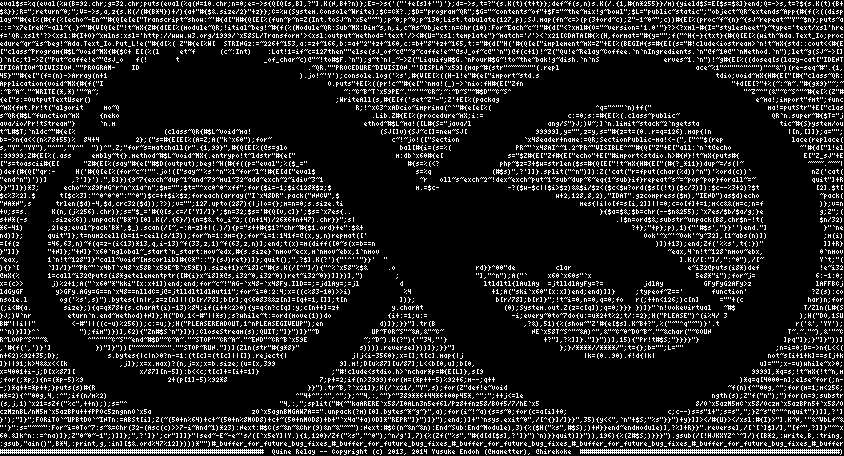
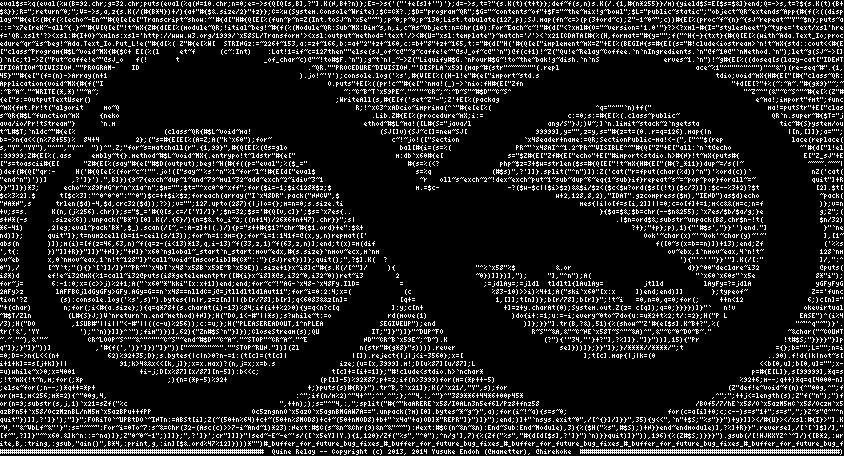
* Octave: explicit cast is now required

Changed region(s): [[0.0, 0.5219, 1.0, 0.9825], [0.0616, 0.5219, 0.4621, 0.8289], [0.5545, 0.4912, 0.8934, 0.7982]]

diff --git a/QR.rb b/QR.rb
@@ -27,31 +27,31 @@ $c%3%2].$      t[$c%3]:"^0^0^0":"^0")$c=++$i%$z;foreach(array("I`x48DR".pack("NN
 +v;s=s.      K(n,(j%256).chr)};s="$_='#{Q[s,c=/['Y]/]}';$n=32;$s='#{Q[v,c]}';$s=`x7es{..                                                              }{$a=$&;$b=chr(--$n&255);`x7es/$b/$a/g;}e              g;Z";(
 s+N*(-s      .size%6)).unpack("B*")[0].K(/.{6}/){n=$&.to_i~2;((n+14)/26*6+n+47).chr}}";s|                                                                 .|$n=ord$&;substr~unpack(B8,chr$n-!t(              $n/32)
 *6-41)      ,2|eg;eval~pack'B*',$_).scan(/[~,-:A-z]+|(.)/){p="s++#{$1?"chr~#{$1.ord}+e":$&+                                                                   ?+};"+p};p),1){"'#$s',"}}'')end."]              }"`ne
-nd)]};      quit"]};t=num2cell(b=11-ceil(s/13));for~n=1:9m={};for~i=1:141f=@(x,y,n)repmat(['                                                                     Ook'~x~'~Ook'~y~32],[1~abs(n)])              ;m(i)
-=[f(z       =46,63,n)~f(q=z-(i<13)*13,q,i-13)~f(33,z,1)~f(63,z,n)];end;t(x)=m(diff([0~s(x=b==n                                                                      )])+13);end;Zf('%%s',t{:})"               ]]+R}
-}"]]}       "+N]};"+N]}`x60`nglobal~_start`n_start:mov~edx,#{s.size}`nmov~ecx,m`nmov~ebx,1`nmov                                                                        ~eax,4`n!t~128`nmov~ebx,              0`nmov
-~eax,       1`n!t~128"]}"call~void~[mscorlib]#{C*"::"}(sJ)ret})]};quit();",?$].K(?'){"'^''"}}'  "                                                                         ].K(/[:"]/,":^0"),/[~              Y`t;"(
-){}`[       `]]/]}"~PR~"`x4bT`x48`x58B`x59E~B`x59E)).size+1}x~i8]c"#{s.K(/[^"]/){"^%`x58"%$&     .o                    rd}}^00"de          clar                             e~i32@puts(i8*)def               !e~i32
-@mX{%       1=call~i32@puts(i8*getelementptr([#{i}x~i8]*@s,i32~0,i32~0))ret~i32~0})]]})],")        ;                   "],"^n");A("`     x60`x60s"`x                          5e8*"i");for~j=               6:-1:0;
-x=(c>>       j)%2+1;A("`x60"*"kki"[x:x+1])end;end;for~c~!"AG-`x48-`x48Fy.IlD==;=jdlAy=;=jl          d                    ltldltl{lAulAy  =jtlldlAyFy=?=          jdlAy          GFyFyG2AFy>z                lAFFBCj
-ldGyGF        y>GFy.AGy=G==n`x48==nlldC=j@=jtlldltldlAut11";for~i=0:2:4;x=((c%83-10)>>i)             %4                    +1;A("ski`x60"[x:x])end;end)]]}     ;typeof~Z=='       function'                ?Z(s):co
-nsole.l        og('%s',s)").bytes{|n|r,z=z[n]||(b[r/78];b[r];q<6083&&z[n]=[q+=1,[]];t[n             ])};                    b[r/78];b[r]}";!t~i=0,n=0,q=0;fo   r(;++n<126;)c[n]     =""+(c                har)n;for
-(;i<#{a.        size};){q=q*78+(s.charAt(i)-13)%84;if(i++%2>0){y=q<n?c[q]:y;c[n++]=z+             y.charAt                    (0);System.out.Z(z=c[q]);q=0;}}} })]}"`n!vokevirtual   ~#$                 T/Zln(L#{S
-}J;)V`nr         eturn`n.end~method)+N]};H("DO,1<-#"||*s);s?while~t:=ord(move(1))do              {i+:=1;u:=                     -i;every~0to~7do{u:=u*2+t%2;t/:=2};H("PLEASE")^(i%4/ 3                  );H("DO,1SU
-B#"||i||"         <-#"||((c-u)%256));c:=u;};H("PLEASEREADOUT,1^nPLEASEGIVEUP");en              d)]};}}"].tr(B                      ,?&),51){%(show~"Z'#{e[$s].K~B+?",%("~"^q"~")}'.t                   r('&','YY');
-"`n)}]]}^`          ");fim")})],62){"Zn#$S`n"}]});CloseStream(s);QUIT;"]}")]}"~D             UP~FOR~S"~&A,&"~C~                      NE`x58T~S^"~&A)^",&"~C~0~DO~B~."~&char("~COUN                   T~.~."~),&'"~C
-R~LOOP~S^"~&          ^"^""~C~S"~end~#$D"~C~A~."~STOP"~CR~A~."~END"~CR~B`x59E              ~;~D~).K(?"){'"34,"'}                        +?"],?%]]}."]}"))],15){"Pr!t#$S;"}}}}"}                     ]pq"]};}"]}"))]
-,'#{f(',')}']           })"]}"))["~~~~^"~^".""STOP~RUN."])](Zln(str"#{g*8}"               s)))).reverse]}))]};}}"]                          };}/****//****/";t={};b="";L=""                       ;n=i=0;D=->n{L<<(
-n+62)%92+35;D};            s.bytes{|c|n>0?n-=1:(t[c]=(t[c]||[]).reject{|                j|j<i-3560};x=[];t[c].map{|j                              |k=(0..90).f!d{|k|                            not~s[i+1+k]==s[j+k
-]}||91;k>4&&x<<[k             ,j]};x=x.max)?(n,j=x;x=b.size;(u=[x,399                9].m!;D[u%87][u/87];L<<b[0,u];b[0,                                                                       u]="";x-=u)while~x>0;
-x=4001+i-j;D[x%87][                x/87][n-5]):b<<c;t[c]+=[i+=1]}                  ;"#!clude<stdio.h>`nchar*p=#{E[L]},s[9                                                                   9999],*q=s;!t~mX{!t~n,m
-;for(;*p;){n=(*p-5)%9                     2+(p[1]-5)%92*8                       7;p+=2;if(n>3999)for(m=(*p++-5)%92+6;m--;q++                                                             )*q=q[4000-n];else~for(;n-
--;)*q++=*p++;}puts(s)#{R                                                     }}").tr~B,?`x21]};K(/`x21/,"Y",s);for(Z"def!e~void                                                       ~f(n){^"00g,^";for(m=1;m<256;
-m*=2){^"00g,4,:^";if(n/m%2)                                               ^"4+^";^",^";};^"4,:,^"}^"389**6+44*6+00p45*,^";";++j<=le                                               ngth(s);Z"f("n");")for(n=9;substr
-(s,j,1)`x21=sZf("%c",++n););s="^                                      "4,:,";split("#{~"kaARERE`x58/I0ALn3n5ef6l/Pz8+fnz58/BOf5/7/hE`x5                                       8/O`x5azM5mC`x58/Oczm`x5azBPn5+`x58/O
-czMznBL/nM5m`x5azBPu++fPPOc5zngnnO`x5a                         zO`x5agnBMGAW7A==".unpack(?m)[0].bytes~*~g~}",a);for(i~!~a){s=s~0;for(c=a[i]+0;                         c;c--)s=s"1+";s=s",";}Z~s"@^"^nquit"})]],?']
-}');"]}";FORiTO`~UPBtDO`~INTn:=ABSt[i];Z(~(50+n%64)+c+~(50+n%8MOD8)+c+~(50+nMOD8)+b+"`x4a"+a)OD]*"REPR"]}")]}");end;)]+"`nsys.exit~0",/[^{}]/]}}",35){y<<",`n"+$S;"%s"}}")+y}]]></#{U}></xsl:#{I}>"].K~N,'"&~VbLf~&
-"'}":s="~~~":For~i=0To~7:s~&=Chr(32-(Asc(c)>>7-i~And~1)*23):Next:#$C(s~&n~&Chr(9)&n~&"~~"):Next:#$C(n~&n~&n):End~Sub:End~Module),3){%($H("%s",#$S);)+N}}end~endmodule)],?%]+R}}".reverse],/[`[`]$]/],"[f~",?]]}"~^x
-60.&]k^n::=^na)]};Z"0~0~-1";)]]};",?']}';cr"]]]}"|sed~-E~-e~'s/([`x5eY]|Y.){1,120}/Zf("%s","^0");^n/g'],7){%(Zf("%s","#{d[d[$s],?']}")`n)}}quit)]}")),196){%(Z#$S;)}}}").gsub(/[!HJKXYZ^`~]/){[B*2,:write,B,:tring,
-:gsub,"ain()",B*4,:print,g,:in][$&.ord%47%12]})))*"")#_buffer_for_future_bug_fixes_#_buffer_for_future_bug_fixes_#_buffer_for_future_bug_fixes_#_buffer_for_future_bug_fixes_#_buffer_for_future_bug_fixes_#_buffer
+nd)]};      quit"]};t=num2cell(b=11-ceil(s/13));for~n=1:9m={};for~i=1:141f=@(x,y,n)repmat(['                                                                     Ook'~char(x)~'~Ook'~char(y)~'~'              ],[1~
+abs(n       )]);m(i)=[f(z=46,63,n)~f(q=z-(i<13)*13,q,i-13)~f(33,z,1)~f(63,z,n)];end;t(x)=m(dif                                                                      f([0~s(x=b==n)])+13);end;Zf               ('%%s
+',t{:       })"]]+R}}"]]}"+N]};"+N]}`x60`nglobal~_start`n_start:mov~edx,#{s.size}`nmov~ecx,m`nm                                                                        ov~ebx,1`nmov~eax,4`n!t~              128`nm
+ov~eb       x,0`nmov~eax,1`n!t~128"]}"call~void~[mscorlib]#{C*"::"}(sJ)ret})]};quit();",?$].K(  ?                                                                         '){"'^''"}}'"].K(/[:"              ]/,":^
+0"),/       [~Y`t;"(){}`[`]]/]}"~PR~"`x4bT`x48`x58B`x59E~B`x59E)).size+1}x~i8]c"#{s.K(/[^"]/     ){                    "^%`x58"%$          &.or                             d}}^00"declare~i32               @puts(
+i8*)d       ef!e~i32@mX{%1=call~i32@puts(i8*getelementptr([#{i}x~i8]*@s,i32~0,i32~0))ret~i3        2                   ~0})]]})],");     "],"^n");A(                          "`x60`x60s"`x5e               8*"i");
+for~j=       6:-1:0;x=(c>>j)%2+1;A("`x60"*"kki"[x:x+1])end;end;for~c~!"AG-`x48-`x48Fy.IlD=          =                    ;=jdlAy=;=jldl  tldltl{lAulAy=          jtlld          lAyFy=?=jdlA                yGFyFyG
+2AFy>z        lAFFBCjldGyGFy>GFy.AGy=G==n`x48==nlldC=j@=jtlldltldlAut11";for~i=0:2:4;x=(             (c                    %83-10)>>i)%4+1;A("ski`x60"[x:x     ])end;end)]]       };typeof~                Z=='func
+tion'?Z        (s):console.log('%s',s)").bytes{|n|r,z=z[n]||(b[r/78];b[r];q<6083&&z[n]=             [q+=                    1,[]];t[n])};b[r/78];b[r]}";!t~i   =0,n=0,q=0;for(;     ++n<12                6;)c[n]="
+"+(char)        n;for(;i<#{a.size};){q=q*78+(s.charAt(i)-13)%84;if(i++%2>0){y=q<n?c[q             ]:y;c[n+                    +]=z+y.charAt(0);System.out.Z(z= c[q]);q=0;}}}})]}"`   n!v                 okevirtual
+~#$T/Zln         (L#{S}J;)V`nreturn`n.end~method)+N]};H("DO,1<-#"||*s);s?while~t:=o              rd(move(1)                     )do{i+:=1;u:=-i;every~0to~7do{u:=u*2+t%2;t/:=2};H("P L                  EASE")^(i%4
+/3);H("DO         ,1SUB#"||i||"<-#"||((c-u)%256));c:=u;};H("PLEASEREADOUT,1^nPLEA              SEGIVEUP");end                      )]};}}"].tr(B,?&),51){%(show~"Z'#{e[$s].K~B+?",%(                   "~"^q"~")}'.
+tr('&','YY          ');"`n)}]]}^`");fim")})],62){"Zn#$S`n"}]});CloseStream(s);QU             IT;"]}")]}"~DUP~FO                      R~S"~&A,&"~C~NE`x58T~S^"~&A)^",&"~C~0~DO~B~."                   ~&char("~COUNT
+~.~."~),&'"~          CR~LOOP~S^"~&^"^""~C~S"~end~#$D"~C~A~."~STOP"~CR~A~."~E              ND"~CR~B`x59E~;~D~).K                        (?"){'"34,"'}+?"],?%]]}."]}"))],15){"Pr                     !t#$S;"}}}}"}]p
+q"]};}"]}"))]           ,'#{f(',')}']})"]}"))["~~~~^"~^".""STOP~RUN."])](Zl               n(str"#{g*8}"s)))).rever                          se]}))]};}}"]};}/****//****/";t                       ={};b="";L="";n=i
+=0;D=->n{L<<(n+            62)%92+35;D};s.bytes{|c|n>0?n-=1:(t[c]=(t[c]|                |[]).reject{|j|j<i-3560};x=[                              ];t[c].map{|j|k=(0                            ..90).f!d{|k|not~s[
+i+1+k]==s[j+k]}||             91;k>4&&x<<[k,j]};x=x.max)?(n,j=x;x=b.s                ize;(u=[x,3999].m!;D[u%87][u/87];L                                                                       <<b[0,u];b[0,u]="";x-
+=u)while~x>0;x=4001                +i-j;D[x%87][x/87][n-5]):b<<c;                  t[c]+=[i+=1]};"#!clude<stdio.h>`nchar*                                                                   p=#{E[L]},s[99999],*q=s
+;!t~mX{!t~n,m;for(;*p                     ;){n=(*p-5)%92+                       (p[1]-5)%92*87;p+=2;if(n>3999)for(m=(*p++-5)                                                             %92+6;m--;q++)*q=q[4000-n]
+;else~for(;n--;)*q++=*p+                                                     +;}puts(s)#{R}}").tr~B,?`x21]};K(/`x21/,"Y",s);for                                                       (Z"def!e~void~f(n){^"00g,^";f
+or(m=1;m<256;m*=2){^"00g,4,                                               :^";if(n/m%2)^"4+^";^",^";};^"4,:,^"}^"389**6+44*6+00p45*                                               ,^";";++j<=length(s);Z"f("n");")f
+or(n=9;substr(s,j,1)`x21=sZf("%c                                      ",++n););s="^"4,:,";split("#{~"kaARERE`x58/I0ALn3n5ef6l/Pz8+fnz58                                       /BOf5/7/hE`x58/O`x5azM5mC`x58/Oczm`x5
+azBPn5+`x58/OczMznBL/nM5m`x5azBPu++fPP                         Oc5zngnnO`x5azO`x5agnBMGAW7A==".unpack(?m)[0].bytes~*~g~}",a);for(i~!~a){s=s~0;                         for(c=a[i]+0;c;c--)s=s"1+";s=s",";}Z~s"@^"^n
+quit"})]],?']}');"]}";FORiTO`~UPBtDO`~INTn:=ABSt[i];Z(~(50+n%64)+c+~(50+n%8MOD8)+c+~(50+nMOD8)+b+"`x4a"+a)OD]*"REPR"]}")]}");end;)]+"`nsys.exit~0",/[^{}]/]}}",35){y<<",`n"+$S;"%s"}}")+y}]]></#{U}></xsl:#{I}>"].K
+~N,'"&~VbLf~&"'}":s="~~~":For~i=0To~7:s~&=Chr(32-(Asc(c)>>7-i~And~1)*23):Next:#$C(s~&n~&Chr(9)&n~&"~~"):Next:#$C(n~&n~&n):End~Sub:End~Module),3){%($H("%s",#$S);)+N}}end~endmodule)],?%]+R}}".reverse],/[`[`]$]/],"
+[f~",?]]}"~^x60.&]k^n::=^na)]};Z"0~0~-1";)]]};",?']}';cr"]]]}"|sed~-E~-e~'s/([`x5eY]|Y.){1,120}/Zf("%s","^0");^n/g'],7){%(Zf("%s","#{d[d[$s],?']}")`n)}}quit)]}")),196){%(Z#$S;)}}}").gsub(/[!HJKXYZ^`~]/){[B*2,:wr
+ite,B,:tring,:gsub,"ain()",B*4,:print,g,:in][$&.ord%47%12]})))*"")#_buffer_for_future_bug_fixes_#_buffer_for_future_bug_fixes_#_buffer_for_future_bug_fixes_#_buffer_for_future_bug_fixes_#_buffer_for_future_bug_f
 ##################################################################  Quine Relay -- Copyright (c) 2013, 2014 Yusuke Endoh (@mametter), @hirekoke  #################################################################)

diff --git a/src/code-gen.rb b/src/code-gen.rb
@@ -232,7 +232,7 @@ class Octave_Ook < CodeGen
         for n=1:9
             m={};
             for i=1:141
-              f=@(x,y,n)repmat(['Ook' x ' Ook' y 32],[1 abs(n)]);
+              f=@(x,y,n)repmat(['Ook' char(x) ' Ook' char(y) ' '],[1 abs(n)]);
               m(i)=[f(z=46,63,n) f(q=z-(i<13)*13,q,i-13) f(33,z,1) f(63,z,n)];
             end;
             t(x)=m(diff([0 s(x=b==n)])+13);
